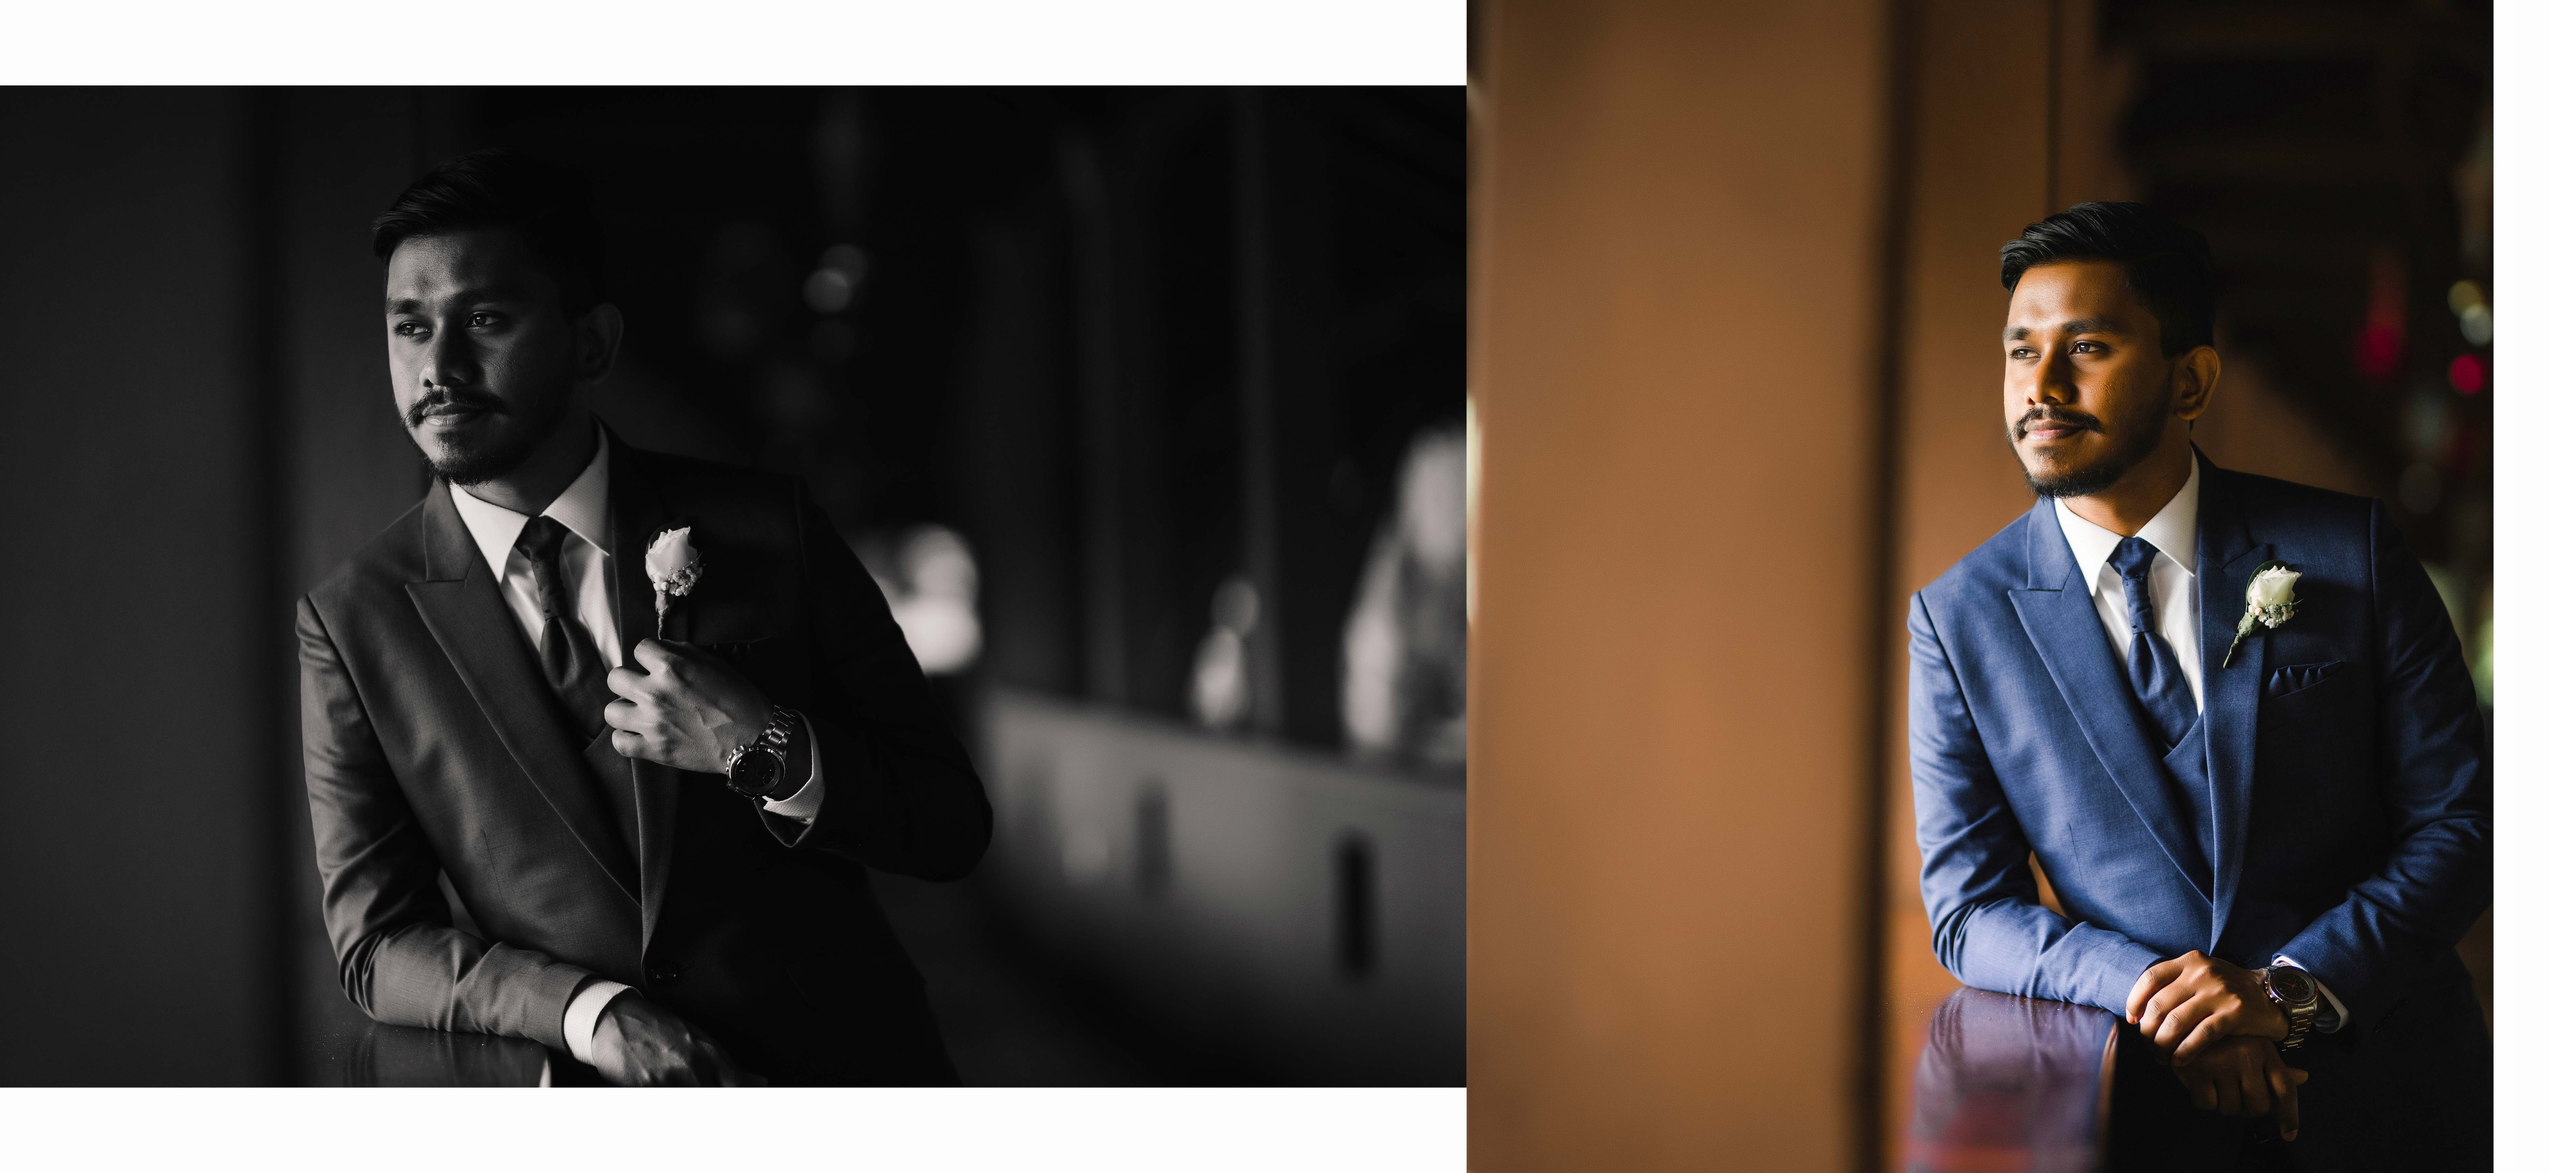
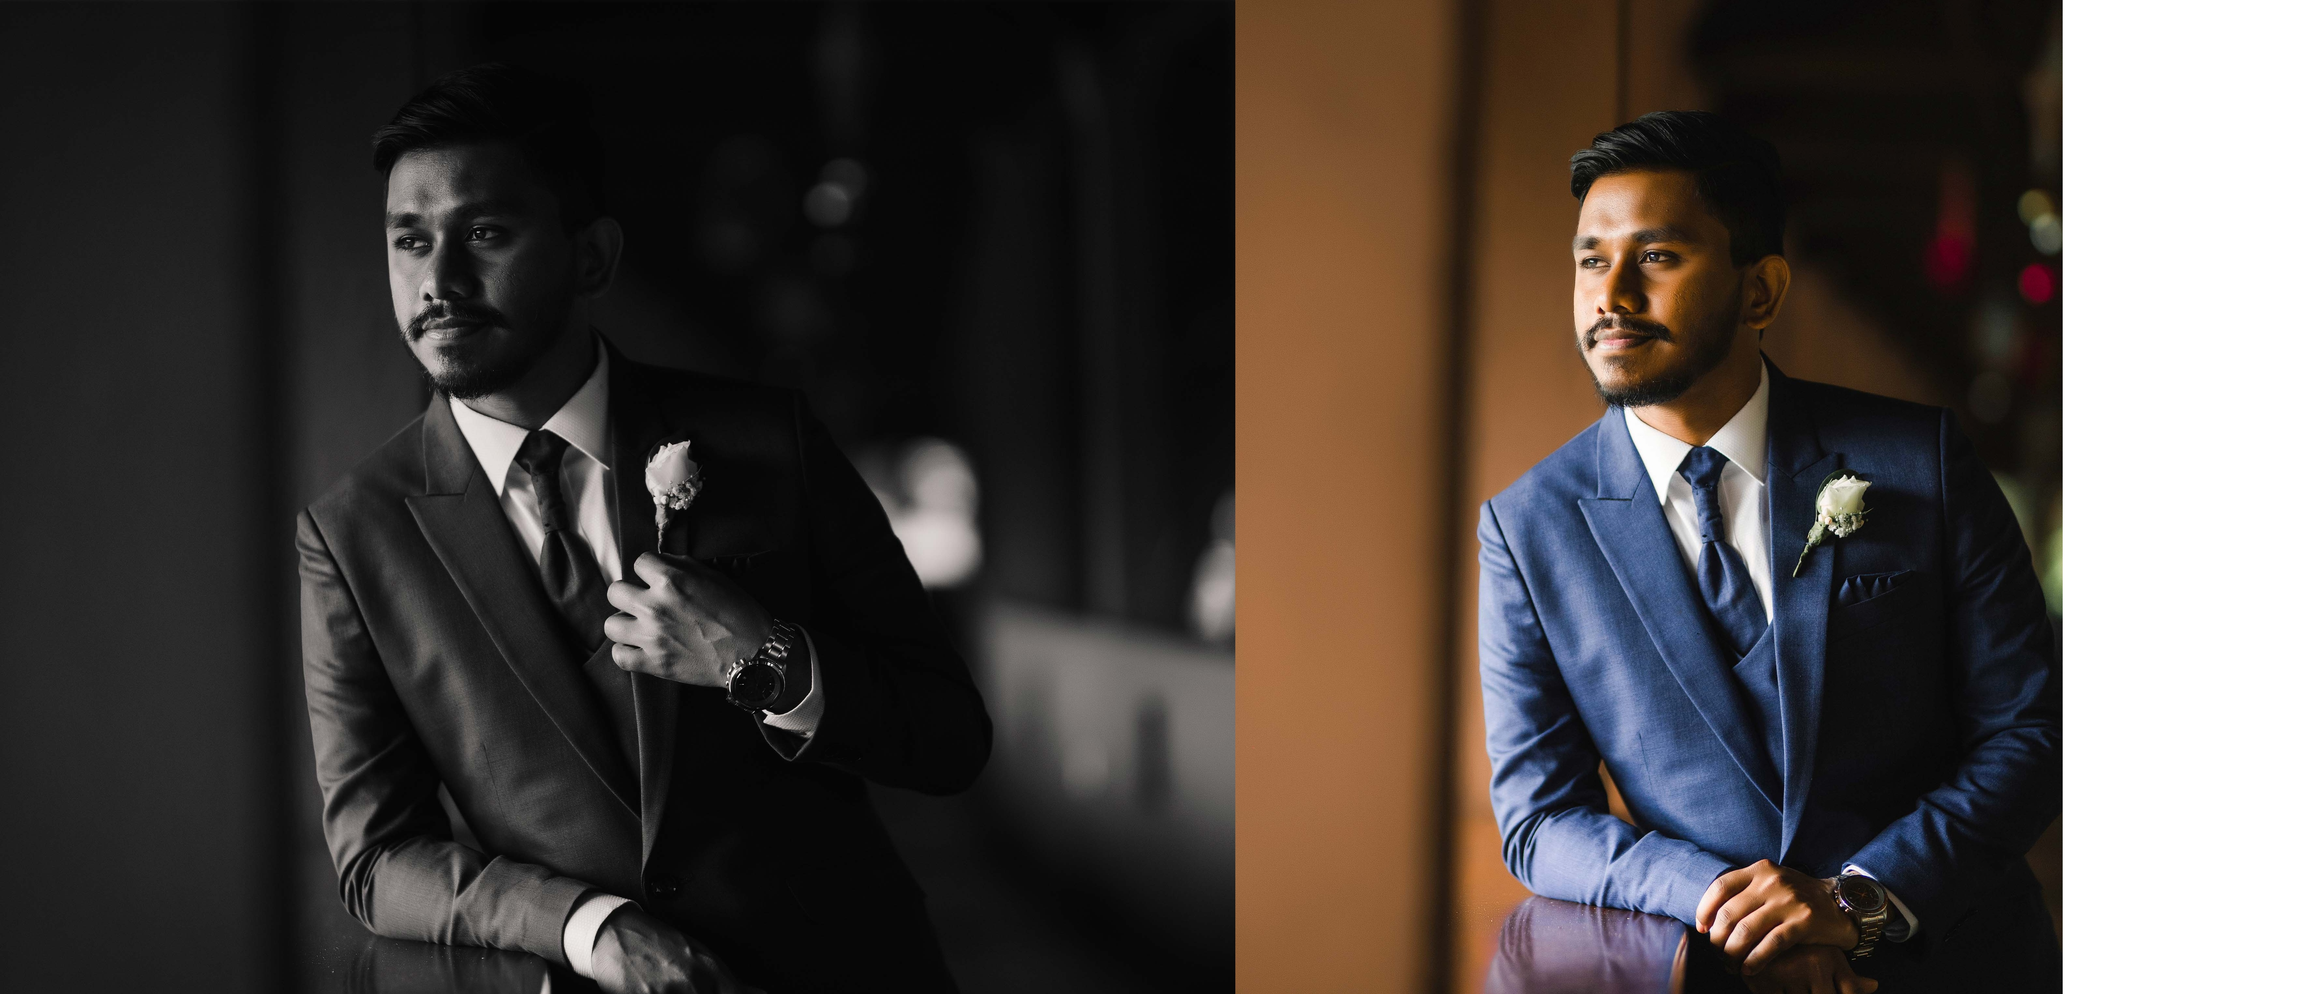
assets

diff --git a/index.html b/index.html
@@ -94,7 +94,7 @@
     <!-- Hero Section -->
     <section id="hero" class="hero section dark-background">
 
-      <img src="assets/img/hero-bg.jpg" alt="" data-aos="fade-in" class="">
+      <img src="assets/img/hero-bg2.jpg" alt="" data-aos="fade-in" class="">
 
       <div class="container" data-aos="fade-up" data-aos-delay="100">
         <h2>Nadith Premaratne</h2>
